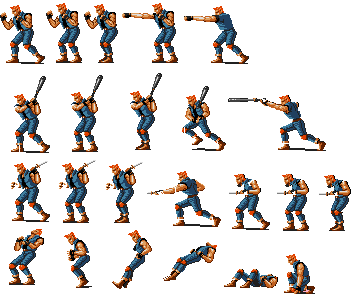
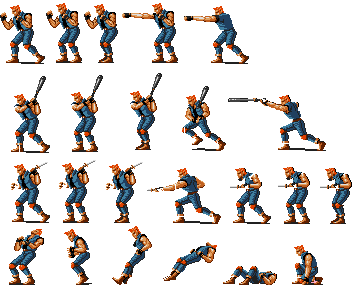
NPC Garcia can be knocked down

diff --git a/src/Creature.cpp b/src/Creature.cpp
@@ -43,6 +43,46 @@ void Creature::spawn()
 	creatureTimer.reset();
 }
 
+void Creature::hit(Creature* c2) {
+	if (hitTimer.getDelta() < 500) {
+		++consecutiveHits;
+	}
+	else {
+		consecutiveHits = 0;
+	}
+	switch (consecutiveHits) {
+	case 0: 
+	case 1:
+		this->setCurrentAnimation(&chop);
+		this->status = ATTACKING;
+		c2->setCurrentAnimation(&(c2->beingHit));
+		c2->status = BEING_HIT;
+		break;
+	case 2:
+		this->setCurrentAnimation(&chop);
+		this->status = ATTACKING;
+		c2->setCurrentAnimation(&(c2->beingHit2));
+		c2->status = BEING_HIT;
+		break;
+	case 3:
+		this->setCurrentAnimation(&chop);
+		this->status = ATTACKING;
+		c2->setCurrentAnimation(&(c2->beingHit3));
+		c2->status = BEING_HIT_2_INI;
+		break;
+	}
+	hitTimer.reset();
+	c2->beingHitTimer.reset();
+}
+
+bool Creature::isAttacking() const {
+	return (status == State::ATTACKING || status == State::ATTACK_JMP);
+}
+
+bool Creature::canBeAttacked() const {
+	return (status != State::BEING_HIT);
+}
+
 void Creature::setCurrentAnimation(Animation* anim) {
 	if (current_animation != anim)
 	{
@@ -139,6 +179,48 @@ void Creature::handleState()
 		}
 		break;
 
+	case ATTACKING_2:
+		if (attackTimer.getDelta() >= 200) {
+			velocity += prevVelocity;
+			if (velocity.x != 0.0f || velocity.y != 0.0f) {
+				status = WALK;
+				setCurrentAnimation(&walking);
+			}
+			else {
+				status = IDLE;
+				setCurrentAnimation(&idle);
+			}
+		}
+		break;
+
+	case ATTACKING_3:
+		if (attackTimer.getDelta() >= 200) {
+			velocity += prevVelocity;
+			if (velocity.x != 0.0f || velocity.y != 0.0f) {
+				status = WALK;
+				setCurrentAnimation(&walking);
+			}
+			else {
+				status = IDLE;
+				setCurrentAnimation(&idle);
+			}
+		}
+		break;
+
+	case ATTACKING_4:
+		if (attackTimer.getDelta() >= 200) {
+			velocity += prevVelocity;
+			if (velocity.x != 0.0f || velocity.y != 0.0f) {
+				status = WALK;
+				setCurrentAnimation(&walking);
+			}
+			else {
+				status = IDLE;
+				setCurrentAnimation(&idle);
+			}
+		}
+		break;
+
 	case JUMP_END:
 		if (jumpTimer.getDelta() >= 100) {
 			velocity += prevVelocity;
@@ -153,12 +235,49 @@ void Creature::handleState()
 		}
 		break;
 
+	case BEING_HIT:
+		if (beingHitTimer.getDelta() >= 300) {
+			status = IDLE;
+			setCurrentAnimation(&idle);
+		}
+		break;
+
+	case BEING_HIT_2_INI:
+		verticalForce = -4.5f;
+		height = 0;
+		velocity.x = 4.0f;
+		status = BEING_HIT_2;
+		break;
+
+	case BEING_HIT_2:
+		if (height > 0) {
+			verticalForce += 0.5f;
+		}
+		else {
+			velocity.y = 0.0f;
+			velocity.x = 0.0f;
+			status = BEING_HIT_2_END;
+			beingHitTimer.reset();
+		}
+		break;
+
+	case BEING_HIT_2_END:
+		if (beingHitTimer.getDelta() >= 1000) {
+			// remember to check that it might be dead
+			status = IDLE;
+			setCurrentAnimation(&idle);
+		}
+		else if (beingHitTimer.getDelta() >= 500) {
+			setCurrentAnimation(&gettingUp);
+		}
+		else setCurrentAnimation(&knockedOut);
+		break;
 	}
 }
 
 void Creature::updatePosition() {
 	int flipOffset = 0;
-	if (status == IDLE || status == WALK || status == JUMPING || status == ATTACK_JMP)
+	if (status == IDLE || status == WALK || status == JUMPING || status == ATTACK_JMP || status == BEING_HIT_2)
 		position.x += (int)velocity.x;
 	if (position.x < 0)
 		position.x = 0;
@@ -166,7 +285,7 @@ void Creature::updatePosition() {
 		depth -= (int)velocity.y;
 	if (status == IDLE || status == WALK)
 		position.y += (int)velocity.y;
-	if (status == RESPAWNING || status == JUMPING || status == ATTACK_JMP) {
+	if (status == RESPAWNING || status == JUMPING || status == ATTACK_JMP || status == BEING_HIT_2) {
 		height -= (int)verticalForce;
 		if (height < 0) {
 			height = 0;

diff --git a/src/NPCGarcia.cpp b/src/NPCGarcia.cpp
@@ -8,12 +8,32 @@ NPCGarcia::NPCGarcia()
 	// Coordinates for Garcia
 
 	// idle animation
-	idle.frames.push_back({ 45, 0, 38, 64 });
+	idle.frames.push_back({ 47, 3, 35, 61 });
 	idle.loop = false;
 	idle.speed = 0.0f;
 
+	// being hit
+	beingHit.frames.push_back({0, 225, 45, 61});
+	beingHit.loop = false;
+	beingHit.speed = 0.0f;
+
+	beingHit2.frames.push_back({ 54, 225, 45, 61 });
+	beingHit2.loop = false;
+	beingHit2.speed = 0.0f;
+
+	beingHit3.frames.push_back({ 54, 225, 45, 61 });
+	beingHit3.frames.push_back({ 107, 225, 45, 61 });
+	beingHit3.frames.push_back({ 161, 225, 56, 61 });
+	beingHit3.loop = false;
+	beingHit3.speed = 0.1f;
+
+	knockedOut.frames.push_back({ 221, 225, 44, 61 });
+	knockedOut.loop = false;
+
+	gettingUp.frames.push_back({ 280, 225, 44, 61 });
+	gettingUp.loop = false;
 	// respawning animation
-	respawning.frames.push_back({ 48, 1104, 43, 65 });
+/*	respawning.frames.push_back({ 48, 1104, 43, 65 });
 	respawning.frames.push_back({ 6, 1104, 42, 65 });
 	respawning.loop = false;
 	respawning.speed = 0.0f;
@@ -43,7 +63,7 @@ NPCGarcia::NPCGarcia()
 	chop.frames.push_back({ 7, 1028, 70, 61 });
 	chop.frames.push_back({ 87, 1028, 47, 61 });
 	chop.loop = false;
-	chop.speed = 0.2f;
+	chop.speed = 0.2f;*/
 
 	position = { 400, 132 };
 	setCurrentAnimation(&idle);

diff --git a/src/Creature.h b/src/Creature.h
@@ -17,6 +17,13 @@ public:
 		JUMP_END,
 		ATTACK_JMP,
 		ATTACKING,
+		ATTACKING_2,
+		ATTACKING_3,
+		ATTACKING_4,
+		BEING_HIT,
+		BEING_HIT_2_INI,
+		BEING_HIT_2,
+		BEING_HIT_2_END,
 		DEAD,
 		UNAVAILABLE
 	};
@@ -32,8 +39,11 @@ public:
 	virtual void updatePosition();
 	void setCurrentAnimation(Animation* anim);
 	void handleState();
+	bool isAttacking() const;
+	bool canBeAttacked() const;
 	virtual void paint();
 	virtual void spawn();
+	void hit(Creature* c2);
 public:
 	Animation* current_animation = nullptr;
 	Animation idle;
@@ -43,12 +53,20 @@ public:
 	Animation jumpKick;
 	Animation chop;
 	Animation respawning;
+	Animation beingHit;
+	Animation beingHit2;
+	Animation beingHit3;
+	Animation beingHit4;
+	Animation gettingUp;
+	Animation knockedOut;
 	fPoint velocity = { 0.0f, 0.0f };
 	fPoint prevVelocity = { 0.0f, 0.0f };
 	short int height = 0;
+	unsigned short int consecutiveHits = 0;
 	float verticalForce = 0.0f;
 	State status = UNAVAILABLE;
-	SimpleTimer creatureTimer, refreshTimer, movementTimer, jumpTimer, attackTimer;
+	SimpleTimer creatureTimer, refreshTimer, movementTimer, jumpTimer;
+	SimpleTimer hitTimer, attackTimer, beingHitTimer;
 	Collider* attackCollider = nullptr;
 	Direction facing = LEFT;
 };

diff --git a/src/Player.cpp b/src/Player.cpp
@@ -19,9 +19,9 @@ Player::Player()
 
 	// idle animation
 	for (size_t i = 0; i < 8; ++i)
-		idle.frames.push_back({ 7, 956, 49, 61 });
-	idle.frames.push_back({ 63, 956, 49, 61 });
-	idle.frames.push_back({ 126, 956, 49, 61 });
+		idle.frames.push_back({ 7, 957, 46, 59 });
+	idle.frames.push_back({ 63, 957, 46, 59 });
+	idle.frames.push_back({ 126, 957, 46, 59 });
 	idle.speed = 0.05f;
 
 	// respawning animation
@@ -102,13 +102,27 @@ void Player::jump()
 void Player::attack()
 {
 	LOG("Player attacks");
-	status = ATTACKING;
 	if (height > 0) {
 		setCurrentAnimation(&jumpKick);
 		status = JUMPING;
 	}
+	else if (status == ATTACKING_3) {
+		status = ATTACKING_4;
+		velocity.y = 0.0f;
+		setCurrentAnimation(&chop);
+	}
+	else if (status == ATTACKING_2) {
+		status = ATTACKING_3;
+		velocity.y = 0.0f;
+		setCurrentAnimation(&chop);
+	}
+	else if (status == ATTACKING) {
+		status = ATTACKING_2;
+		velocity.y = 0.0f;
+		setCurrentAnimation(&chop);
+	}
 	else {
-		//velocity.x = 0;
+		status = ATTACKING;
 		velocity.y = 0.0f;
 		setCurrentAnimation(&chop);
 	}

diff --git a/src/ModuleEntityManager.h b/src/ModuleEntityManager.h
@@ -21,6 +21,7 @@ public:
 	update_status Update();
 	bool CleanUp();
 	Entity* createEntity(Entity::Types entityType);
+	void handleCollision(const Entity* e1, const Entity* e2);
 public:
 	Player* player = nullptr;
 private:

diff --git a/src/Entity.h b/src/Entity.h
@@ -22,6 +22,7 @@ public:
 	virtual update_status Update();
 	virtual bool CleanUp();
 	virtual void paint();
+	bool isCreature() const;
 public:
 	SDL_Texture* graphics = nullptr;
 	Types entityType = UNKNOWN;

diff --git a/src/Entity.cpp b/src/Entity.cpp
@@ -30,3 +30,7 @@ bool Entity::CleanUp()
 
 	return true;
 }
+
+bool Entity::isCreature() const {
+	return (entityType == PLAYER || entityType == NPC_GARCIA);
+}
